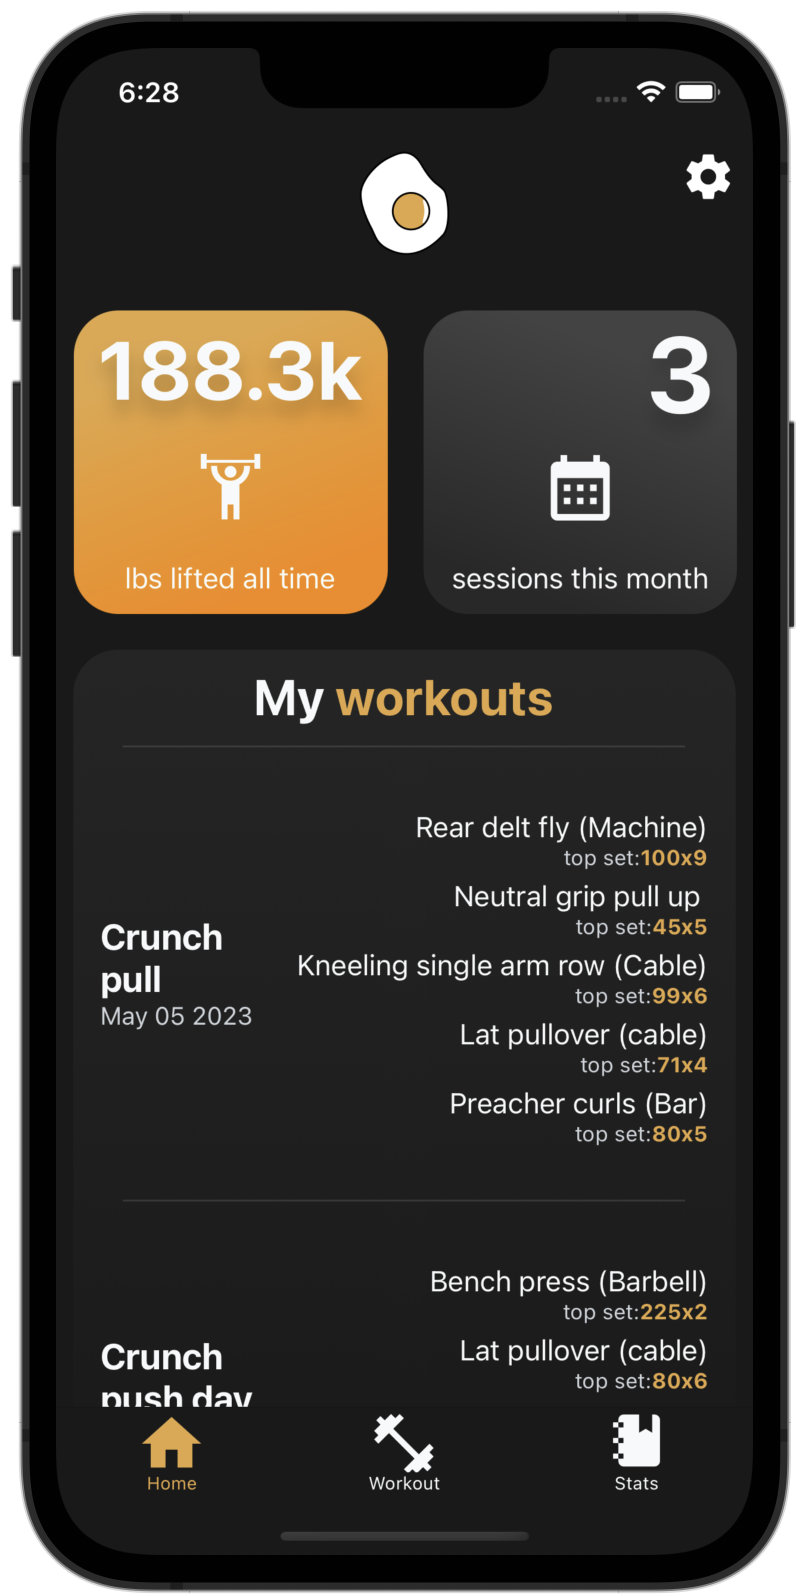
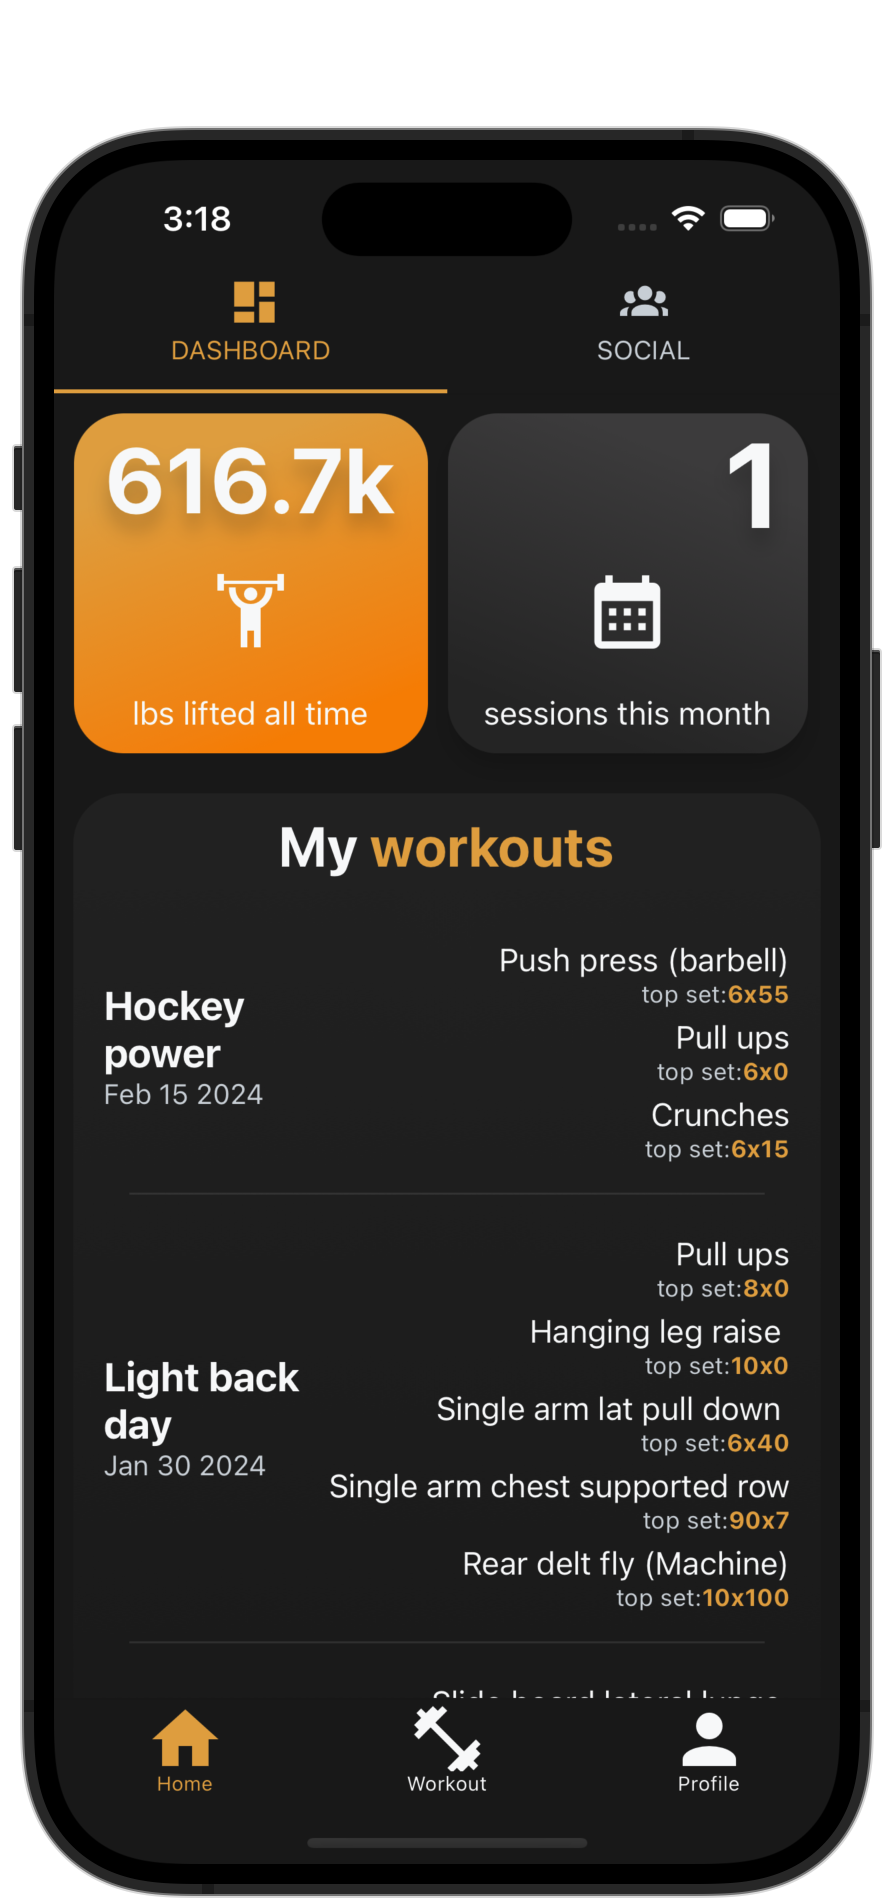
Improved photos

diff --git a/src/app/components/LandingPage/index.js b/src/app/components/LandingPage/index.js
@@ -3,11 +3,11 @@ import Link from "next/link";
 import appstore from "../../assets/appstore.png";
 import googleplay from "../../assets/googleplay.png";
 import iosdashboard from "../../assets/screenshots/iosdash.png";
-import iosactive from "../../assets/screenshots/iosactive.png";
+import iossocial from "../../assets/screenshots/iossocial.png";
+import iosprofile from "../../assets/screenshots/iosprofile.png";
 import iosprs from "../../assets/screenshots/iosprs.png";
 import Image from "next/image";
 import useDeviceDetect from "../../utils";
-
 const LandingPage = () => {
   return (
     <div>
@@ -22,9 +22,8 @@ const LandingPage = () => {
           <div className={styles.screenshotAreaMobile}>
             <div className={styles.screenshotsMobile}>
               <Image src={iosdashboard} width={180} alt="yolkify dashboard" />
-              <Image src={iosactive} width={180} alt="yolkify workout" />
-
-              {/* <Image src={iosprs} width={150} alt="yolkify prs" /> */}
+              <Image src={iossocial} width={180} alt="yolkify social" />
+              <Image src={iosprofile} width={150} alt="yolkify profile" />
             </div>
             <div className={styles.storeIconsMobile}>
               <Image src={appstore} width={150} alt="app store icon" />
@@ -57,17 +56,28 @@ const LandingPage = () => {
           </div>
           <div className={styles.screenshotArea}>
             <div className={styles.screenshots}>
-              <Image src={iosdashboard} width={250} alt="yolkify dashboard" />
-              <Image src={iosactive} width={250} alt="yolkify workout" />
-
-              <Image src={iosprs} width={250} alt="yolkify prs" />
+              <Image
+                src={iosdashboard}
+                quality={100}
+                unoptimized={true}
+                width={250}
+                alt="yolkify dashboard"
+              />
+              <Image src={iosprofile} quality={100}
+                unoptimized={true}
+                width={250} alt="yolkify workout" />
+              <Image src={iossocial} quality={100}
+                unoptimized={true}
+                width={250} alt="yolkify prs" />
             </div>
             <div className={styles.storeIcons}>
               <Link href={"https://apps.apple.com/us/app/yolkify/id6447922223"}>
-                <Image src={appstore} width={200} alt="app store icon" />
+                <Image src={appstore} width={200} quality={100}
+                unoptimized={true}alt="app store icon" />
               </Link>
               <Link href="https://play.google.com/store/apps/details?id=com.yolkify">
-                <Image width={200} src={googleplay} alt="play store icon" />
+                <Image width={200} src={googleplay}quality={100}
+                unoptimized={true} alt="play store icon" />
               </Link>
             </div>
             {/* <div className={styles.androidArea}>
